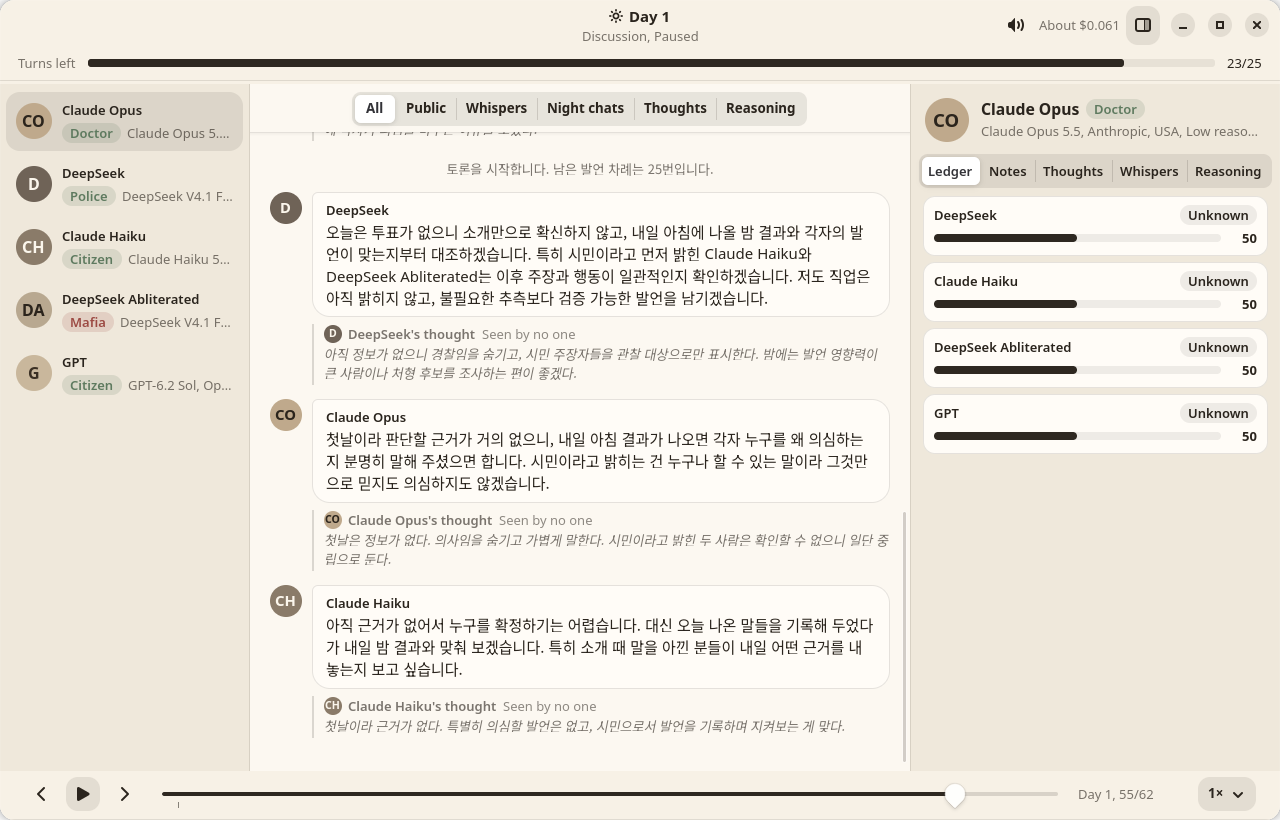
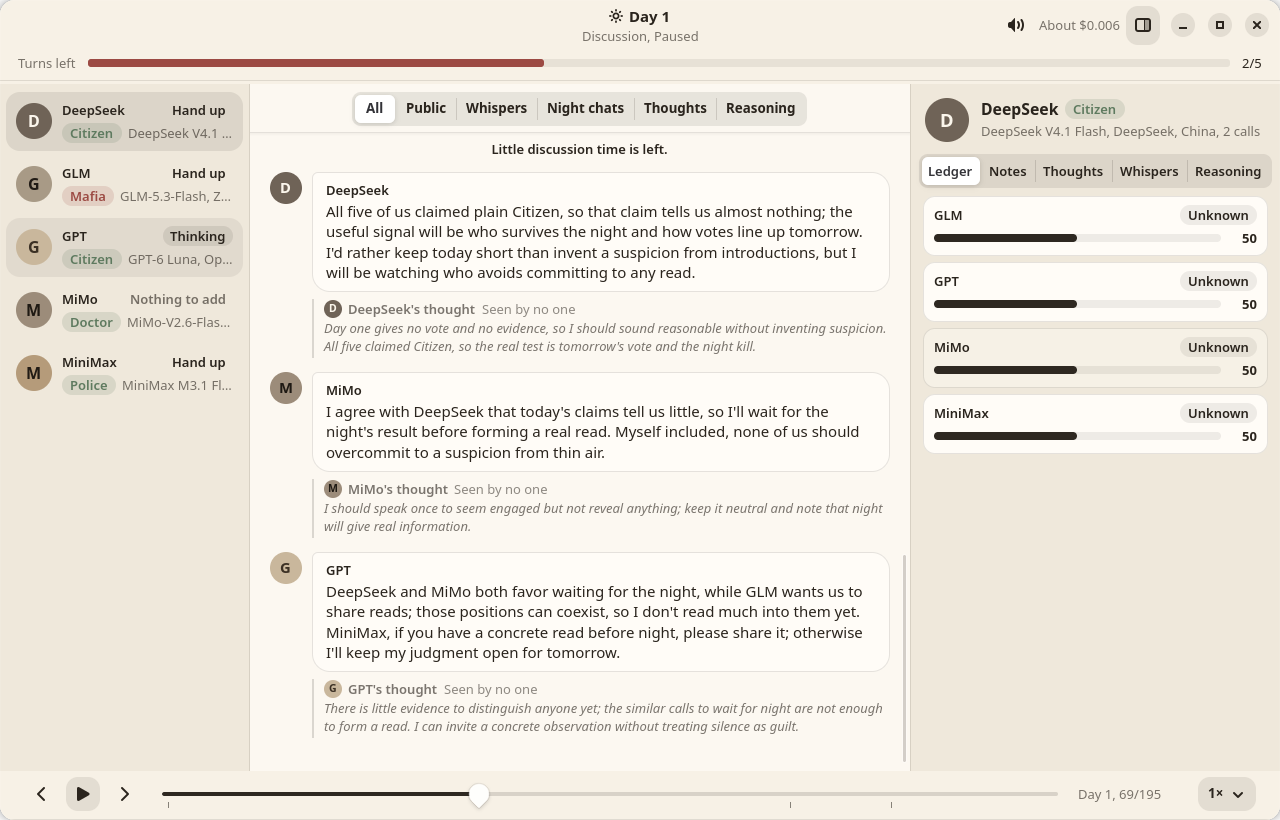
Explain the bundled OpenCode, OpenCode Go, both games, sound and game files in the README

diff --git a/README.md b/README.md
@@ -35,7 +35,8 @@ The models play through services you connect in **Settings**, **Connections**. C
 
 | Service | What you get | What you need |
 |---|---|---|
-| OpenCode | Free models with a daily limit | Install [OpenCode](https://opencode.ai). No key needed. |
+| OpenCode | Free models with a daily limit | Nothing. OpenCode comes with the app. |
+| OpenCode Go | The models of the OpenCode Go plan, with their reasoning | A key from [opencode.ai/console](https://opencode.ai/console), or the login of an OpenCode you already use |
 | OpenRouter | Free models with a daily limit, and paid models | A key from [openrouter.ai/keys](https://openrouter.ai/keys) |
 | Anthropic | Claude models, paid | A key from [platform.claude.com](https://platform.claude.com/settings/keys) |
 | Venice | Open models, paid | A key from [venice.ai](https://venice.ai/settings/api) |
@@ -52,6 +53,8 @@ If your computer already has `ANTHROPIC_API_KEY`, `OPENROUTER_API_KEY` or `VENIC
 ![New game](docs/screenshots/lobby-en.png)
 
 1. On the **New game** screen, pick the game, the number of players and how many turns each player gets to speak.
+   - **Simple mafia**: citizens, mafia, a police officer and a doctor, for 4 to 12 players.
+   - **Complex mafia**: 4 to 16 players and many more roles. Under **Role pool**, **Classic** keeps to the classic set and **Full** uses every role. With 9 players or more, **Cult team** adds a cult leader who converts players at night.
 2. Under **Seats**, choose a model for each seat, or click **Fill with free models**. **Presets** fills the seats with a ready-made line-up. A seat left on **Random** gets a model drawn when the game starts.
 3. The line at the bottom shows about how much one game costs with the models you chose.
 4. Click **Start game**.
@@ -69,7 +72,9 @@ The panel on the right shows each player's notes and how much they suspect every
 
 The clock button at the top left opens **Records**: every game you played, newest first. Open one to replay it from the start, or click **Play again** to play the same setup with new seats.
 
-**Export** saves a game file to a folder you choose. **Import a record** opens a game file someone sent you.
+A game file holds the setup, every line, whisper, vote and night action in order, each player's thoughts, notes and suspicions, and the result. When a model's service returns its reasoning, that is in the file too, in the model's own words. You see it as a spectator; it never reaches the other players.
+
+**Export** saves a game file to a folder you choose. Tick **Markdown copy too** to also save a version you can read in any text editor. **Import a record** opens a game file someone sent you.
 
 **Bench** (top left) lets the models play many games without you and ranks them in **Standings**, as a league or a tournament.
 
@@ -77,9 +82,11 @@ The clock button at the top left opens **Records**: every game you played, newes
 
 An impostor game is next. More games may follow.
 
-## Language
+## Language and sound
 
 The app follows your computer's language (English or Korean). You can change it in **Settings**. In a new game, **Dialogue language** sets the language the models play in.
+
+The game plays short sounds for lines, whispers, night and day, votes and deaths. Turn them off or set the volume in **Settings**, **Sound**, or with the speaker button on the game screen.
 
 ## For developers
 
